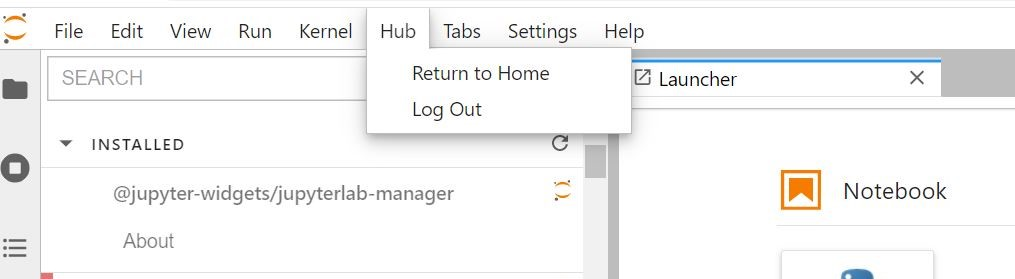
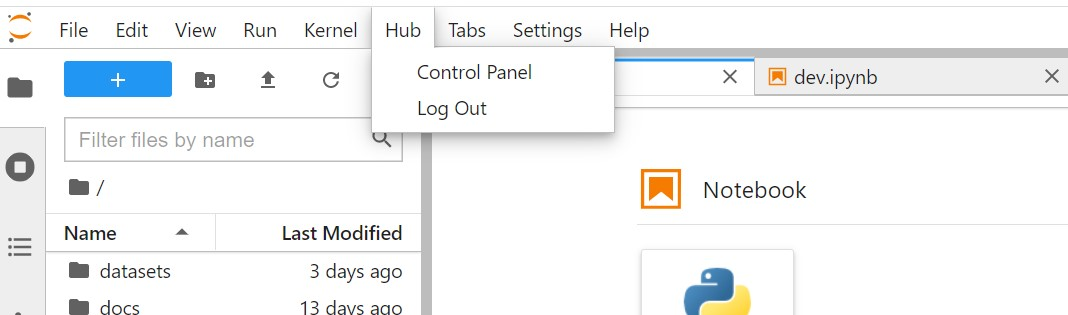
change label

diff --git a/src/index.ts b/src/index.ts
@@ -27,7 +27,7 @@ const extension: JupyterFrontEndPlugin<void> = {
     // Add a command
     const cmd2home = 'lab2hub:home';
     commands.addCommand(cmd2home, {
-      label: 'Return to Home',
+      label: 'Control Panel',
       caption: 'Navigate to the Control Panel on JupyterHub',
       execute: (args: any) => {
         location.assign(location.origin + '/home');
